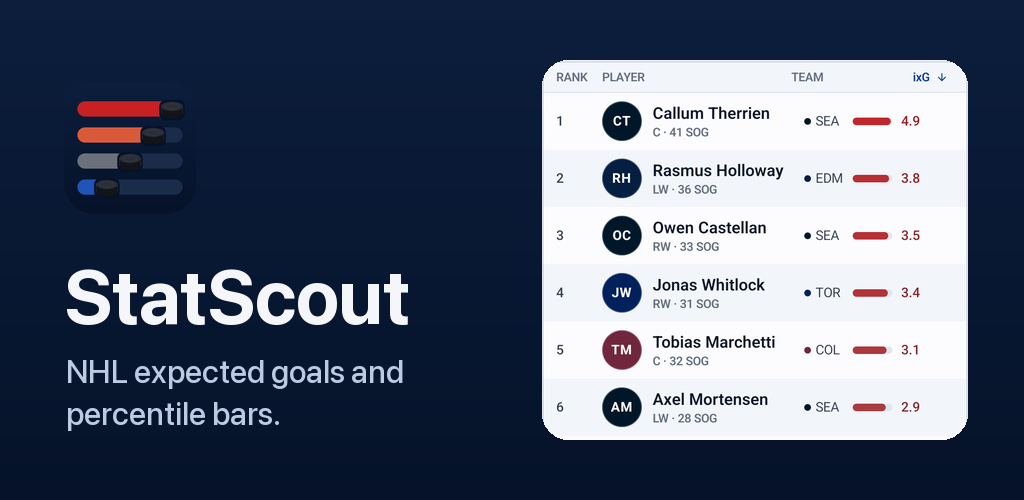
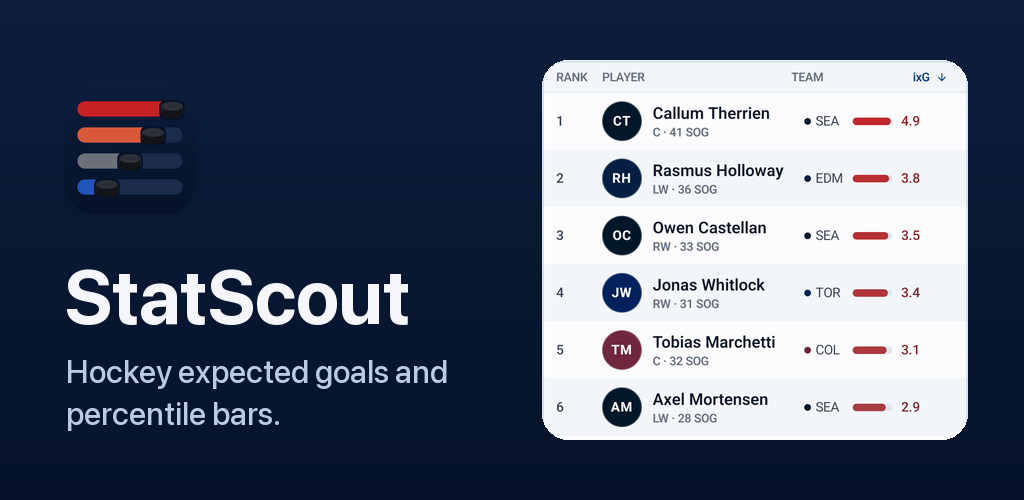
fix(play): remove league names from every listing field and the feature graphic
Full descriptions in all 50 locales drop NHL, NHLPA and the league's full
name; the non-affiliation line is generic. fr-CA title and short used LNH.
The validator now fails on any league name or local form in the title,
short and full description, and on a locale set other than the 50.

Changed region(s): [[0.0625, 0.72, 0.4375, 0.78]]

diff --git a/scripts/validate-play-listing.py b/scripts/validate-play-listing.py
@@ -4,9 +4,9 @@
 Checks every locale folder for Play's limits (title 30, short 80, full 4000),
 the house rules (no em dashes, no prices, no Apple wording, no promo words in
 the title, no medical claims), the StatScout brand in the title, the Google
-Play billing paragraph, the policy links, the MoneyPuck/NHL attribution, and
-that every non-English description says the app itself is in English.
-Exit 1 on any failure.
+Play billing paragraph, the policy links, the MoneyPuck attribution, no league names in any field,
+that every non-English description says the app itself is in English, and
+that the folder set is exactly the 50 target locales. Exit 1 on any failure.
 
 Usage: scripts/validate-play-listing.py [--root DIR]
 """
@@ -19,9 +19,14 @@ import unicodedata
 from pathlib import Path
 
 # Play suspended Football on 2026-11-16 (Impersonation) for league names in localized
-# titles and short descriptions. Keep marks out of both; the full description may name
-# the league only in the non-affiliation line and factual copy.
-LEAGUE_MARK = re.compile(r"NFL|NBA|MLB|NHL|NFLPA|NBPA|MLBPA|NHLPA|НХЛ|Statcast|스탯캐스트")
+# titles and short descriptions; Google denied both appeals. Keep league names, their
+# local forms and league data brands out of the title, short and full description.
+LEAGUE_MARK = re.compile(
+    r"NFLPA|NFL|National Football League|NBPA|NBA|National Basketball Association|"
+    r"MLBPA|MLB|Major League Baseball|Grandes Ligas|大联盟|大聯盟|メジャーリーグ|메이저리그|"
+    r"NHLPA|NHL|National Hockey League|Ligue nationale de hockey|LNH|НХЛ|"
+    r"Национальн\w* хоккейн|Національн\w* хокейн|Statcast|스탯캐스트|Baseball Savant"
+)
 
 ROOT = Path(__file__).resolve().parent.parent / "android/play-assets/metadata/android"
 LIMITS = {"title.txt": 30, "short_description.txt": 80, "full_description.txt": 4000}
@@ -33,6 +38,13 @@ PLAY_LANGS = set(
     "lo-LA lt lv mk-MK ml-IN mn-MN mr-IN ms ms-MY my-MM ne-NP nl-NL no-NO pl-PL "
     "pt-BR pt-PT rm ro ru-RU si-LK sk sl sr sv-SE sw ta-IN te-IN th tr-TR uk vi "
     "zh-CN zh-HK zh-TW zu".split()
+)
+# The 50 locales this listing ships in (same set as Sober).
+EXPECTED = set(
+    "en-US en-GB en-AU en-CA en-IN de-DE fr-FR fr-CA es-ES es-419 es-US pt-BR pt-PT "
+    "it-IT nl-NL sv-SE no-NO da-DK fi-FI pl-PL cs-CZ sk sl hr hu-HU ro el-GR tr-TR "
+    "ru-RU uk ar iw-IL hi-IN bn-BD mr-IN ta-IN te-IN kn-IN ml-IN id ms ms-MY th vi "
+    "ja-JP ko-KR zh-CN zh-TW zh-HK ca".split()
 )
 # The word for "English" in each listing language, used to prove the
 # description says the Android app is not localized.
@@ -71,7 +83,7 @@ def check(locale_dir: Path) -> list[str]:
     loc = locale_dir.name
     if loc not in PLAY_LANGS:
         errs.append(f"unknown Play language code {loc}")
-    for name in ("title.txt", "short_description.txt"):
+    for name in ("title.txt", "short_description.txt", "full_description.txt"):
         p = locale_dir / name
         hit = LEAGUE_MARK.search(p.read_text(encoding="utf-8")) if p.exists() else None
         if hit:
@@ -108,8 +120,8 @@ def check(locale_dir: Path) -> list[str]:
     for url in REQUIRED_URLS:
         if url not in full:
             errs.append(f"full description lacks {url}")
-    if "MoneyPuck" not in full or "NHL" not in full:
-        errs.append("full description lacks the MoneyPuck/NHL attribution")
+    if "MoneyPuck" not in full:
+        errs.append("full description lacks the MoneyPuck attribution")
     lang = loc.split("-")[0]
     if lang != "en":
         word = ENGLISH_WORD.get(lang)
@@ -134,8 +146,14 @@ def main() -> int:
         for e in errs:
             print(f"      - {e}")
         bad += bool(errs)
+    names = {d.name for d in dirs}
+    missing, extra = sorted(EXPECTED - names), sorted(names - EXPECTED)
+    if missing:
+        print(f"\nmissing locales: {' '.join(missing)}")
+    if extra:
+        print(f"\nunexpected locales: {' '.join(extra)}")
     print(f"\n{len(dirs)} locales, {bad} with problems")
-    return 1 if bad else 0
+    return 1 if bad or missing or extra else 0
 
 
 if __name__ == "__main__":

diff --git a/scripts/play_screenshot_compositor.py b/scripts/play_screenshot_compositor.py
@@ -131,7 +131,7 @@ def feature_graphic() -> Path:
     img.paste(icon, (64, 82), icon)
     draw.text((64, 250), "StatScout", font=sans(76, 700), fill=CREAM_TEXT)
     tagline = sans(32, 500)
-    draw.text((66, 352), "NHL expected goals and", font=tagline, fill=TAGLINE)
+    draw.text((66, 352), "Hockey expected goals and", font=tagline, fill=TAGLINE)
     draw.text((66, 394), "percentile bars.", font=tagline, fill=TAGLINE)
 
     board = Image.open(RAW / "01_league_leaders.png").convert("RGB").crop((30, 700, 1050, 1610))

diff --git a/.claude/rules/android.md b/.claude/rules/android.md
@@ -122,12 +122,12 @@ with System UI demo mode on. Pull them into `android/play-assets/raw/` and run
 Store headlines) and the 1024x500 feature graphic. Listing text lives in
 `android/play-assets/metadata/android/<play-locale>/` (fastlane supply layout)
 in Sober's 50 Play locales; en-US is the live listing, the changelog and
-graphics are en-US only. Titles are "<local NHL stats phrase>: StatScout" (en-US
+graphics are en-US only. Titles are "<local hockey stats phrase>: StatScout" (en-US
 keeps "Hockey Edge: Puck StatScout"), search terms come from the iOS
 `fastlane/metadata/<locale>/keywords.txt`, and every non-English description
 says the app itself is in English. Check with `scripts/validate-play-listing.py`
 (limits 30/80/4000, no em dashes, prices or Apple wording, policy links,
-MoneyPuck/NHL attribution, the English notice).
+MoneyPuck attribution, no league name in any field, the English notice).
 Privacy and terms pages are `docs/android-privacy.html` and
 `docs/android-terms.html` on GitHub Pages.
 
@@ -155,3 +155,4 @@ on  2026-10-17. The RevenueCat service account already has
 account-wide Play permissions, so no per-app grant is needed.
 
 - 2026-11-16: Football was suspended on Play (Impersonation) for league names in localized titles and short descriptions. This app's titles and shorts were stripped of league marks and Statcast the same day by API and sent for review; `scripts/validate-play-listing.py` now fails on any league name there. Never put the league acronym in a title or short description.
+- 2026-11-24: Full descriptions in all 50 locales cleaned of league names (NHL, NHLPA, LNH, the league's full name in any language); the non-affiliation line is generic ("any professional hockey league, team, or players association, or MoneyPuck"). fr-CA title and short were "Statistiques LNH" (LNH is the French form of the league acronym) and are now "Stats de hockey". Feature graphic tagline is "Hockey expected goals and percentile bars.", rendered with `play-assets/icon-512.png` because `scripts/play_screenshot_compositor.py` reads the iOS AppIcon, which is now a stick icon unlike the Play icon. `scripts/validate-play-listing.py` fails on any league name or local form in title, short or full description and on a locale set other than the 50. Sent for review by API with the 50 locales and the graphic on production vc1; Console showed "Changes in review". Screenshots carry full club names (Seattle Kraken, Toronto Maple Leafs) but no league mark.
